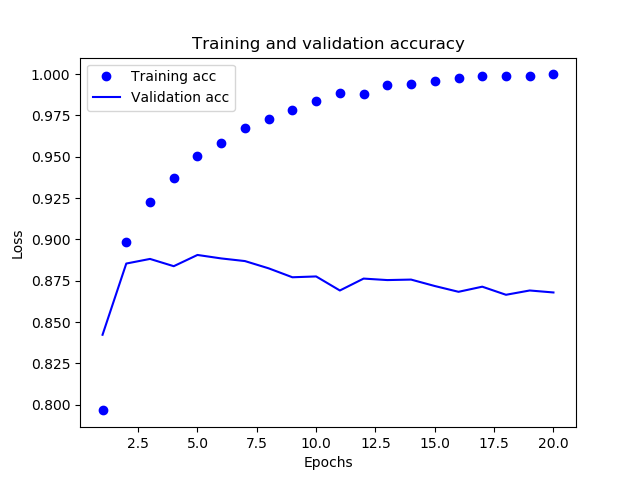
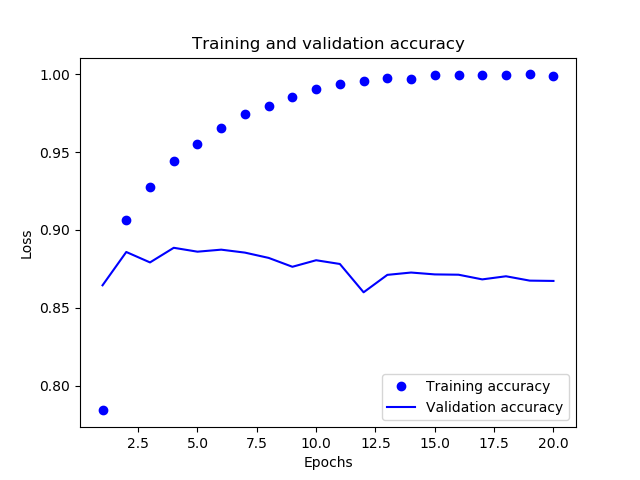
Simple multiclass classification

diff --git a/MulticlassClassification/Newswires.py b/MulticlassClassification/Newswires.py
@@ -1,14 +1,14 @@
-from keras.datasets import imdb
-from keras import models
-from keras import layers
+from keras.datasets import reuters
+from keras.utils import to_categorical
+from keras import models, layers
 import numpy as np
 import matplotlib.pyplot as plt
 
-(train_data, train_labels), (test_data, test_labels) = imdb.load_data(num_words=10000)
-word_index = imdb.get_word_index()
+(train_data, train_labels), (test_data, test_labels) = reuters.load_data(num_words=10000)
+word_index = reuters.get_word_index()
 reverse_word_index = dict([(value, key) for (key, value) in word_index.items()])
 
-def decode_sequence(sequence):
+def decode(sequence):
     return ' '.join([reverse_word_index.get(i - 3, '?') for i in sequence])
 
 def graph_data(train_data, validate_data, train_label, validate_label, title, filename):
@@ -34,62 +34,65 @@ def vectorize_sequences(sequences, dimension=10000):
 x_train = vectorize_sequences(train_data)
 x_test = vectorize_sequences(test_data)
 
-y_train = np.asarray(train_labels).astype('float32')
-y_test = np.asarray(test_labels).astype('float32')
+one_hot_train_labels = to_categorical(train_labels)
+one_hot_test_labels = to_categorical(test_labels)
 
 # Build Network
 model = models.Sequential()
-model.add(layers.Dense(16, activation='relu', input_shape=(10000,)))
-model.add(layers.Dense(16, activation='relu'))
-model.add(layers.Dense(1, activation='sigmoid'))
+model.add(layers.Dense(64, activation='relu', input_shape=(10000,)))
+model.add(layers.Dense(64, activation='relu'))
+model.add(layers.Dense(46, activation='softmax'))
 
-model.compile(optimizer='rmsprop', 
-              loss='binary_crossentropy',
+model.compile(optimizer='rmsprop',
+              loss='categorical_crossentropy',
               metrics=['accuracy'])
 
 # Validate Approach
-partial_x_train = x_train[10000:]
-partial_y_train = y_train[10000:]
-x_validation = x_train[:10000]
-y_validation = y_train[:10000]
+x_validate = x_train[:1000]
+y_validate = one_hot_train_labels[:1000]
+partial_x_train = x_train[1000:]
+partial_y_train = one_hot_train_labels[1000:]
 
 history = model.fit(partial_x_train,
                     partial_y_train,
                     epochs=20,
                     batch_size=512,
-                    validation_data=(x_validation, y_validation))
+                    validation_data=(x_validate, y_validate))
 
-history_dict = history.history
-loss = history_dict['loss']
-val_loss = history_dict['val_loss']
-accuracy = history_dict['accuracy']
-val_accuracy = history_dict['val_accuracy']
+loss = history.history['loss']
+val_loss = history.history['val_loss']
+accuracy = history.history['accuracy']
+val_accuracy = history.history['val_accuracy']
 
 graph_data(train_data=loss, 
            validate_data=val_loss,
            train_label='Training loss',
            validate_label='Validation loss',
            title='Training and validation loss',
-           filename='MovieReviews_TrainingAndValidationLoss')
+           filename='Newswires_TrainingAndValidationLoss')
 
 graph_data(train_data=accuracy, 
            validate_data=val_accuracy,
            train_label='Training accuracy',
            validate_label='Validation accuracy',
            title='Training and validation accuracy',
-           filename='MovieReviews_TrainingAndValidationAccuracy')
+           filename='Newswires_TrainingAndValidationAccuracy')
 
 # Build Improved Network
 model = models.Sequential()
-model.add(layers.Dense(16, activation='relu', input_shape=(10000,)))
-model.add(layers.Dense(16, activation='relu'))
-model.add(layers.Dense(1, activation='sigmoid'))
+model.add(layers.Dense(64, activation='relu', input_shape=(10000,)))
+model.add(layers.Dense(64, activation='relu'))
+model.add(layers.Dense(46, activation='softmax'))
 
-model.compile(optimizer='rmsprop', 
-              loss='binary_crossentropy',
+model.compile(optimizer='rmsprop',
+              loss='categorical_crossentropy',
               metrics=['accuracy'])
 
-model.fit(x_train, y_train, epochs=4, batch_size=512)
-results = model.evaluate(x_test, y_test)
+model.fit(partial_x_train,
+          partial_y_train,
+          epochs=9,
+          batch_size=512,
+          validation_data=(x_validate, y_validate))
 
+results = model.evaluate(x_test, one_hot_test_labels)
 print(results)
